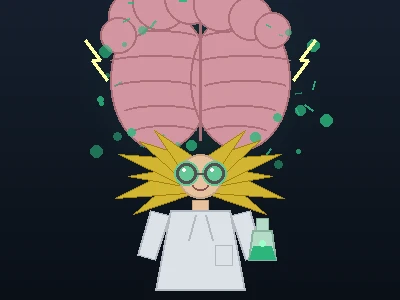
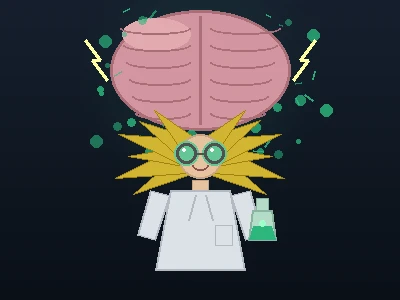
Fix brain shape (proper sulci, no toe bumps), inline sidebar header with 1/4-size image

Changed region(s): [[0.21, 0.0, 0.84, 0.99], [0.78, 0.24, 0.81, 0.3], [0.45, 0.78, 0.48, 0.81]]

diff --git a/doc/index.html b/doc/index.html
@@ -17,12 +17,13 @@ body { display: flex; height: 100vh; overflow: hidden;
   background: var(--c-side-bg); border-right: 1px solid var(--c-side-border);
   overflow-y: auto; flex-shrink: 0; }
 
-.sidebar-header { background: var(--c-topbar-bg); padding: 0;
-  flex-shrink: 0; cursor: pointer; text-align: center; overflow: hidden; }
-.sidebar-header:hover { opacity: .9; }
-.sidebar-header img { width: 100%; height: 88px; object-fit: cover; object-position: center top; display: block; }
-.sidebar-header h1 { color: #fff; font-size: 15px; font-weight: 700; line-height: 1;
-  letter-spacing: .5px; padding: 5px 0 6px; background: var(--c-topbar-bg); }
+.sidebar-header { background: var(--c-topbar-bg); padding: 6px 10px;
+  flex-shrink: 0; cursor: pointer; display: flex; align-items: center; gap: 9px; }
+.sidebar-header:hover { opacity: .88; }
+.sidebar-header img { width: 100px; height: 75px; object-fit: contain; display: block;
+  flex-shrink: 0; border-radius: 3px; }
+.sidebar-header h1 { color: #fff; font-size: 15px; font-weight: 700; line-height: 1.2;
+  letter-spacing: .4px; }
 
 .nav-section { font-size: 9px; font-weight: 700; text-transform: uppercase;
   letter-spacing: 1px; color: var(--c-side-section); padding: 10px 16px 3px; }

diff --git a/bin/generate_image.py b/bin/generate_image.py
@@ -50,67 +50,40 @@ def draw_glow(img, cx, cy, radius, color, alpha=60):
 
 
 def draw_brain(draw, cx, top_y):
-    """Draw an oversized lumpy brain centered at cx, starting at top_y."""
-    bw, bh = 180, 140   # brain bounding box
+    """Draw an oversized brain: single smooth ellipse + fissure + horizontal sulci."""
+    bw, bh = 180, 120
 
-    # Main lobes — two big hemispheres side by side
-    lobe_top = top_y
-    lobe_bot = top_y + bh
-    lobe_mid_x = cx
-    half = bw // 2
+    # Outer shape — one smooth ellipse, no bumps
+    draw.ellipse([cx - bw // 2, top_y, cx + bw // 2, top_y + bh],
+                 fill=BRAIN_BASE, outline=BRAIN_RIDGE, width=3)
 
-    # Left hemisphere
-    draw.ellipse([lobe_mid_x - half, lobe_top,
-                  lobe_mid_x + 10,   lobe_bot],
-                 fill=BRAIN_BASE, outline=BRAIN_RIDGE, width=2)
-    # Right hemisphere
-    draw.ellipse([lobe_mid_x - 10,   lobe_top,
-                  lobe_mid_x + half, lobe_bot],
-                 fill=BRAIN_BASE, outline=BRAIN_RIDGE, width=2)
+    # Highlight on upper-left to give roundness
+    draw.ellipse([cx - bw // 2 + 12, top_y + 8, cx - 10, top_y + 40],
+                 fill=(225, 170, 175))
 
-    # Central groove line
-    draw.line([(cx, lobe_top + 10), (cx, lobe_bot - 10)],
+    # Central interhemispheric fissure (vertical)
+    draw.line([(cx, top_y + 6), (cx, top_y + bh - 6)],
               fill=BRAIN_RIDGE, width=3)
 
-    # Ridges — left lobe
-    for i, (dx, dy, ex, ey) in enumerate([
-        (-70, 20, -20, 15),
-        (-75, 45, -15, 40),
-        (-70, 70, -20, 65),
-        (-60, 95, -18, 90),
-        (-50, 115, -20, 110),
-    ]):
-        draw.arc([cx + dx - 18, lobe_top + dy,
-                  cx + ex + 18, lobe_top + ey + 20],
-                 start=200, end=340, fill=BRAIN_RIDGE, width=2)
+    # Horizontal sulci — left hemisphere (drawn as concave arcs, open upward)
+    for i in range(6):
+        y = top_y + 18 + i * 17
+        shrink = i * 3
+        x1 = cx - bw // 2 + 10 + shrink
+        x2 = cx - 10
+        draw.arc([x1, y - 6, x2, y + 6], start=0, end=180,
+                 fill=BRAIN_RIDGE, width=2)
 
-    # Ridges — right lobe
-    for i, (dx, dy, ex, ey) in enumerate([
-        (20, 20, 70, 15),
-        (15, 45, 75, 40),
-        (20, 70, 70, 65),
-        (18, 95, 60, 90),
-        (20, 115, 50, 110),
-    ]):
-        draw.arc([cx + dx - 18, lobe_top + dy,
-                  cx + ex + 18, lobe_top + ey + 20],
-                 start=200, end=340, fill=BRAIN_RIDGE, width=2)
+    # Horizontal sulci — right hemisphere
+    for i in range(6):
+        y = top_y + 18 + i * 17
+        shrink = i * 3
+        x1 = cx + 10
+        x2 = cx + bw // 2 - 10 - shrink
+        draw.arc([x1, y - 6, x2, y + 6], start=0, end=180,
+                 fill=BRAIN_RIDGE, width=2)
 
-    # Bumpy top protrusions (lumpy effect)
-    bump_positions = [
-        (cx - 70, lobe_top + 5, 22),
-        (cx - 40, lobe_top - 8, 28),
-        (cx - 10, lobe_top - 12, 26),
-        (cx + 20, lobe_top - 6, 27),
-        (cx + 50, lobe_top + 8, 22),
-        (cx + 72, lobe_top + 20, 18),
-        (cx - 82, lobe_top + 25, 18),
-    ]
-    for bx, by, br in bump_positions:
-        draw.ellipse([bx - br, by - br, bx + br, by + br],
-                     fill=BRAIN_BASE, outline=BRAIN_RIDGE, width=2)
-
-    return lobe_bot  # bottom of brain
+    return top_y + bh  # bottom of brain
 
 
 def draw_sparks(img, cx, brain_top, brain_bot):

diff --git a/bin/build_documentation.py b/bin/build_documentation.py
@@ -344,12 +344,13 @@ body {{ display: flex; height: 100vh; overflow: hidden;
   background: var(--c-side-bg); border-right: 1px solid var(--c-side-border);
   overflow-y: auto; flex-shrink: 0; }}
 
-.sidebar-header {{ background: var(--c-topbar-bg); padding: 0;
-  flex-shrink: 0; cursor: pointer; text-align: center; overflow: hidden; }}
-.sidebar-header:hover {{ opacity: .9; }}
-.sidebar-header img {{ width: 100%; height: 88px; object-fit: cover; object-position: center top; display: block; }}
-.sidebar-header h1 {{ color: #fff; font-size: 15px; font-weight: 700; line-height: 1;
-  letter-spacing: .5px; padding: 5px 0 6px; background: var(--c-topbar-bg); }}
+.sidebar-header {{ background: var(--c-topbar-bg); padding: 6px 10px;
+  flex-shrink: 0; cursor: pointer; display: flex; align-items: center; gap: 9px; }}
+.sidebar-header:hover {{ opacity: .88; }}
+.sidebar-header img {{ width: 100px; height: 75px; object-fit: contain; display: block;
+  flex-shrink: 0; border-radius: 3px; }}
+.sidebar-header h1 {{ color: #fff; font-size: 15px; font-weight: 700; line-height: 1.2;
+  letter-spacing: .4px; }}
 
 .nav-section {{ font-size: 9px; font-weight: 700; text-transform: uppercase;
   letter-spacing: 1px; color: var(--c-side-section); padding: 10px 16px 3px; }}
